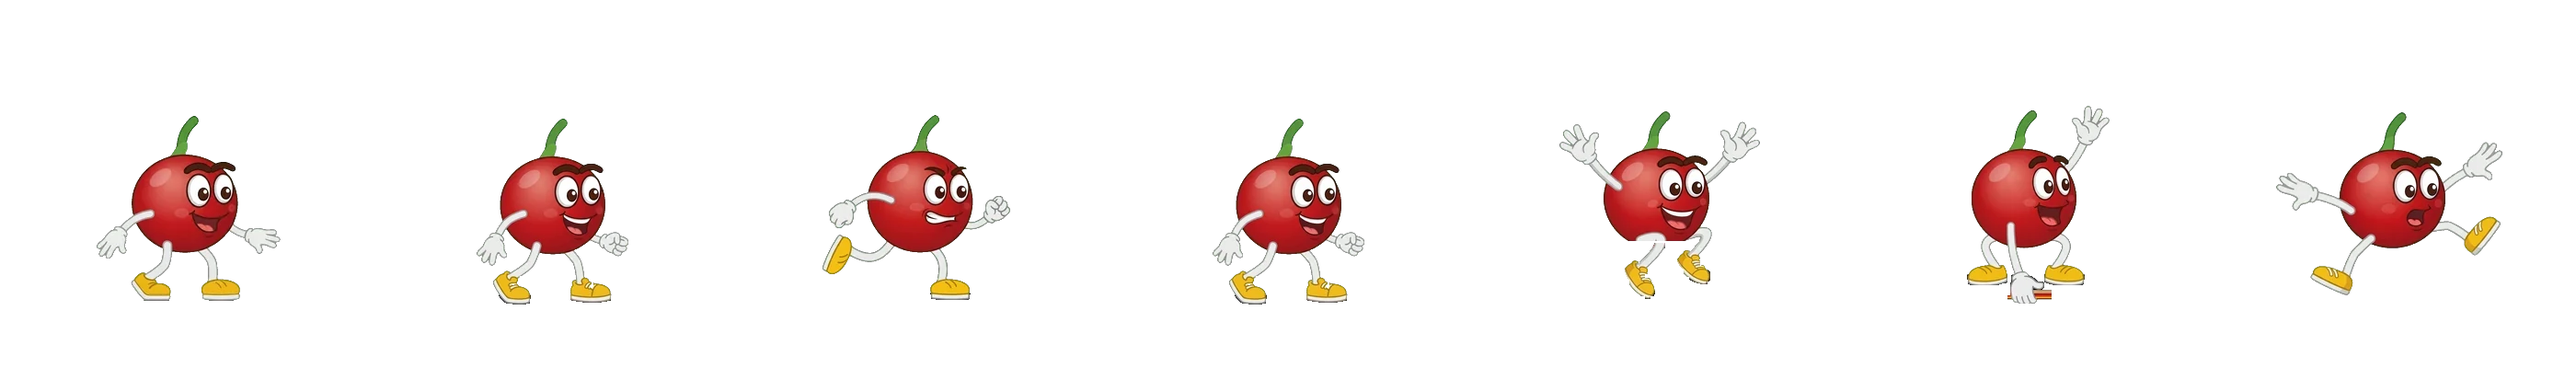
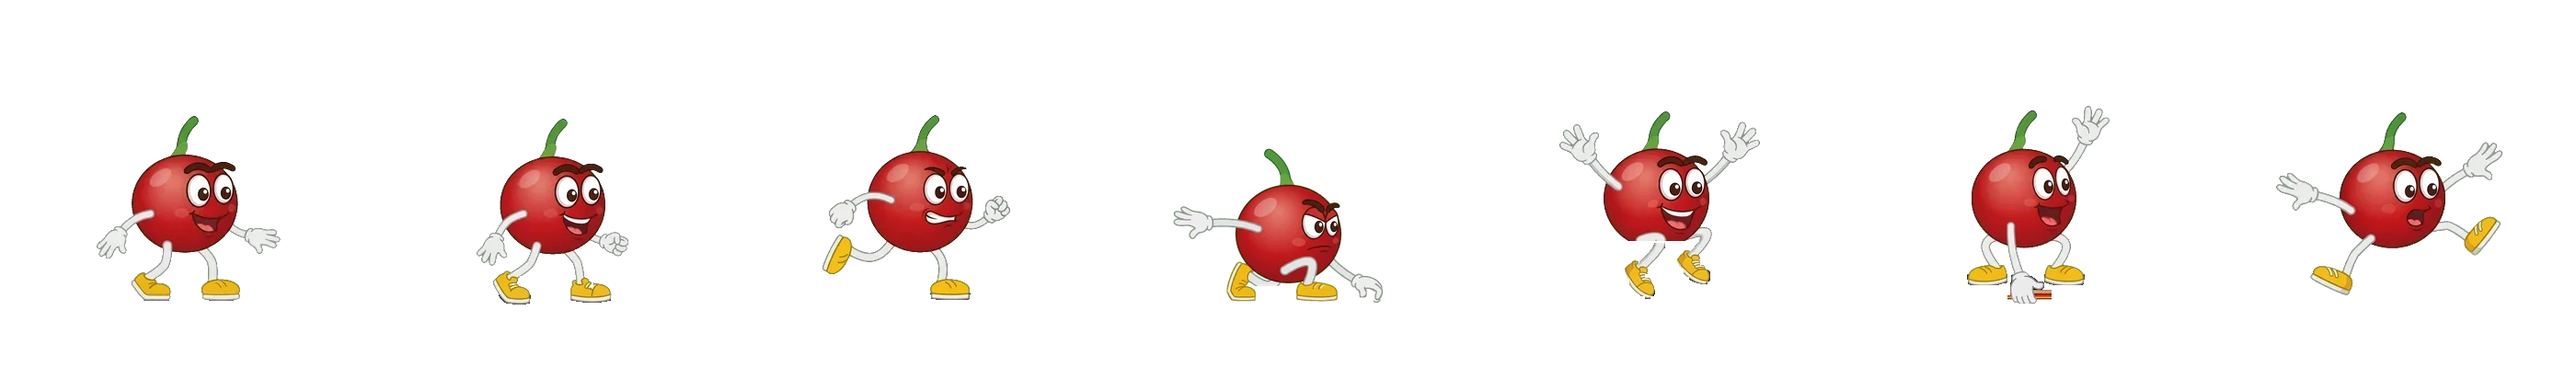
Jaboti Run: skate com pose agachada, 360 flip e corrimão com grind

Changed region(s): [[0.435, 0.33, 0.5593, 0.84]]

diff --git a/arcade/index.html b/arcade/index.html
@@ -465,9 +465,9 @@ else { const l = document.createElement('link'); l.rel = 'stylesheet'; l.href = 
       src.buffer = noiseBuf; src.loop = true; f.type = 'lowpass'; f.frequency.value = 500; f.Q.value = 1.4; g.gain.value = 0;
       src.connect(f).connect(g).connect(sfxBus); src.start(); mus.roll = { g, f };
     }
-    const rolling = state === 'running' && skateOn() && player.ground;
-    mus.roll.g.gain.setTargetAtTime(rolling ? (player.slide ? .22 : .12) : 0, audio.currentTime, .06);
-    mus.roll.f.frequency.setTargetAtTime(380 + (speed || 0) * .45, audio.currentTime, .2);
+    const grinding = state === 'running' && !!player.grind, rolling = state === 'running' && skateOn() && player.ground;
+    mus.roll.g.gain.setTargetAtTime(grinding ? .3 : rolling ? (player.slide ? .22 : .12) : 0, audio.currentTime, .04);
+    mus.roll.f.frequency.setTargetAtTime(grinding ? 3200 : 380 + (speed || 0) * .45, audio.currentTime, grinding ? .02 : .2);
     const want = muted ? null : musicTarget();
     if (want !== mus.song) {
       mus.song = want; mus.step = 0; mus.loops = 0; mus.next = audio.currentTime + .06;
@@ -522,7 +522,7 @@ else { const l = document.createElement('link'); l.rel = 'stylesheet'; l.href = 
   };
 
   function reset() {
-    player = { y: 0, vy: 0, ground: true, jumps: 0, coyote: 0, buffer: 0, spin: -1, land: 0, stretch: 0, dx: 0, drop: 0, deadT: 0, landedDead: false, rotDead: 0, slide: false, blink: 2 };
+    player = { y: 0, vy: 0, ground: true, jumps: 0, coyote: 0, buffer: 0, spin: -1, land: 0, stretch: 0, dx: 0, drop: 0, deadT: 0, landedDead: false, rotDead: 0, slide: false, blink: 2, grind: null };
     pose = { ...IDLE_POSE };
     obstacles = []; coins = []; particles = []; texts = [];
     speed = START_SPEED; dist = 0; score = 0; bonus = 0; caps = 0; gap = 600; runTime = 0; rankSent = null; boardFly = null;
@@ -552,6 +552,7 @@ else { const l = document.createElement('link'); l.rel = 'stylesheet'; l.href = 
     if (state === 'over') { if (player.deadT > 1.1) start(); return; }
     if (state === 'paused') { togglePause(); return; }
     if (state !== 'running') return;
+    if (player.grind) { endGrind(false); jump(); return; }                  // sai do corrimão pulando
     if (!player.ground && player.coyote <= 0 && player.jumps < (skills.pulo > 0 ? 3 : 2)) { doubleJump(); return; }
     player.buffer = .13;
   }
@@ -663,6 +664,13 @@ else { const l = document.createElement('link'); l.rel = 'stylesheet'; l.href = 
   function spawn() {
     const r = Math.random(), x0 = W + 40;
     let w;
+    if (skateOn() && score > 60 && Math.random() < .2) {
+      // corrimão (só de skate): pula em cima para fazer grind, ou por cima
+      w = 300 + Math.round(Math.random() * 180);
+      obstacles.push({ kind: 'rail', x: x0, w, h: 50 });
+      for (let i = 0; i < 5; i++) coins.push({ x: x0 + 70 + i * (w - 130) / 4, y: GROUND - 50 - 62, ph: i * .5 });
+      return w;
+    }
     if (score > 250 && r < .07) {
       // drone com engradados voando em altura média: desliza por baixo ou pula por cima
       obstacles.push({ kind: 'drone', x: x0, w: 54, bottom: GROUND - 96, ph: Math.random() * TAU });
@@ -768,15 +776,16 @@ else { const l = document.createElement('link'); l.rel = 'stylesheet'; l.href = 
     parafuso: { turns: 0,  screw: 2, dur: .48, label: 'PARAFUSO!', color: '#9bcb45' },
     duplo:    { turns: 2,  screw: 1, dur: .62, label: 'MORTAL DUPLO!', color: '#ff6a5f' },
     // de skate (pose própria do atlas do skate em sk)
-    kickflip: { turns: 0, screw: 0, dur: .44, label: 'KICKFLIP!', color: '#ffd84a', sk: 6 },
+    // (o corpo não gira: quem vira é o skate — kick = voltas no eixo comprido, shove = giro na horizontal)
+    kickflip: { turns: 0, screw: 0, dur: .44, label: 'KICKFLIP!', color: '#ffd84a', sk: 6, kick: 1 },
     grab:     { turns: 0, screw: 0, dur: .46, label: 'GRAB!', color: '#7fd0ff', sk: 5 },
-    flip360:  { turns: 1, screw: 0, dur: .5, label: '360 FLIP!', color: '#9bcb45', sk: 4 },
-    duplosk:  { turns: 2, screw: 0, dur: .62, label: '720 FLIP!', color: '#ff6a5f', sk: 6 }
+    treflip:  { turns: 0, screw: 0, dur: .54, label: '360 FLIP!', color: '#9bcb45', sk: 6, kick: 1, shove: 1 },
+    duplosk:  { turns: 0, screw: 0, dur: .66, label: '360 FLIP DUPLO!', color: '#ff6a5f', sk: 6, kick: 2, shove: 2 }
   };
   let lastTrick = '';
   function pickTrick() {
     if (player.jumps >= 3) return skateOn() ? 'duplosk' : 'duplo';
-    const opts = (skateOn() ? ['kickflip', 'grab', 'flip360'] : ['mortal', 'reverso', 'parafuso']).filter(k => k !== lastTrick);
+    const opts = (skateOn() ? ['kickflip', 'grab', 'treflip'] : ['mortal', 'reverso', 'parafuso']).filter(k => k !== lastTrick);
     return (lastTrick = pick(opts));
   }
   // poses das manobras (Gemini): 0 entrando, 1 e 2 encolhido como bola, 3 abrindo, 4 parafuso de braços cruzados;
@@ -813,12 +822,33 @@ else { const l = document.createElement('link'); l.rel = 'stylesheet'; l.href = 
     popText(PX + 70, Math.max(70, GROUND - player.y - 110), T.label, T.color);
     ring(PX, GROUND - player.y - 40, '#ffffff'); sparkle(PX, GROUND - player.y - 30, 8, '#ffffff'); sfx.djump();
   }
+  // grind no corrimão (só de skate): cai em cima dele vindo de um pulo
+  const GRINDS = [
+    { label: '50-50!', f: 3, dy: 13, color: '#ffd84a' },
+    { label: 'NOSEGRIND!', f: 0, dy: 13, tilt: .14, color: '#7fd0ff' },
+    { label: '5-0 GRIND!', f: 0, dy: 13, tilt: -.14, color: '#9bcb45' },
+    { label: 'BOARDSLIDE!', f: 1, dy: 21, sx: .26, color: '#ff6a5f' },
+    { label: 'CROOKED!', f: 3, dy: 13, tilt: .1, color: '#f08a1c' }
+  ];
+  let lastGrind = null;
+  function startGrind(o) {
+    const g = pick(GRINDS.filter(x => x !== lastGrind)); lastGrind = g;
+    player.grind = { o, g, t: 0 }; player.ground = false; player.spin = -1; player.trail = []; player.vy = 0; player.y = o.h - g.dy; player.jumps = 0; player.land = .6;
+    popText(PX + 70, GROUND - o.h - 120, g.label, g.color); sfx.skland(); sparkle(PX + 10, GROUND - o.h, 12, '#ffe08a');
+  }
+  function endGrind(hop) {
+    const G2 = player.grind; if (!G2) return;
+    player.grind = null; player.ground = false; player.jumps = 1; player.vy = hop ? 260 : 0;
+    const pts = (30 + Math.floor(G2.t * 60)) * mult(); bonus += pts;
+    popText(PX + 40, GROUND - player.y - 100, '+' + pts, G2.g.color);
+  }
   function playerBox() {
     const sliding = player.slide && player.ground;
     const h = sliding ? 86 : skateOn() ? 114 : 104;
     return { x1: PX - 22, x2: PX + 24, y1: GROUND - player.y - h, y2: GROUND - player.y - 3 };
   }
   function hits(o, p) {
+    if (o.kind === 'rail') return !player.grind && p.x2 > o.x + 6 && p.x1 < o.x + o.w - 6 && p.y2 > GROUND - o.h + 10;
     if (o.kind === 'prop') return o.hit.some(([hx, hw, hh]) => p.x2 > o.x + hx && p.x1 < o.x + hx + hw && p.y2 > GROUND - hh);
     if (o.kind === 'hang') return p.x2 > o.x + 6 && p.x1 < o.x + o.w - 6 && p.y1 < o.bottom;
     if (o.kind === 'drone') { const b = droneBottom(o); return p.x2 > o.x + 5 && p.x1 < o.x + o.w - 5 && p.y1 < b && p.y2 > b - 48; }
@@ -831,7 +861,7 @@ else { const l = document.createElement('link'); l.rel = 'stylesheet'; l.href = 
   }
   function die() {
     state = 'dying'; hitstop = .12; shake = 14;
-    player.vy = 640; player.ground = false; player.deadT = 0; player.landedDead = false; player.spin = -1;
+    player.grind = null; player.vy = 640; player.ground = false; player.deadT = 0; player.landedDead = false; player.spin = -1;
     sparkle(PX + 20, GROUND - player.y - 50, 14, '#ffffff'); sfx.hit(); skills = {};
     if (skateOn()) boardFly = { x: PX, y: GROUND - player.y - 8, vx: 260, vy: -520, r: 0, vr: 9 };
     loja.carteira += caps; salvarLoja();                                      // tampinhas da partida vão para a carteira
@@ -886,12 +916,20 @@ else { const l = document.createElement('link'); l.rel = 'stylesheet'; l.href = 
       if (player.ground) player.coyote = .08; else player.coyote -= dt;
       if (player.buffer > 0 && (player.ground || player.coyote > 0) && player.jumps === 0) jump();
 
-      if (!player.ground) {
+      if (player.grind) {                                                   // deslizando no corrimão
+        const o = player.grind.o; player.grind.t += dt;
+        player.vy = 0; player.y = o.h - player.grind.g.dy; player.coyote = 0;
+        if (Math.random() < .8) particles.push({ type: 'spark', x: PX + (Math.random() - .5) * 30, y: GROUND - o.h + 1, vx: -220 - Math.random() * 260, vy: -60 - Math.random() * 140, life: .3, max: .3, r: 1.5 + Math.random() * 2, color: Math.random() < .6 ? '#ffd23a' : '#ffffff' });
+        if (o.dead || o.x + o.w - 6 < PX) endGrind(true);
+      } else if (!player.ground) {
+        const prevY = player.y;
         let g = G;
         if (hold && player.vy > 0 && player.jumps === 1) g *= .62;
         if (duckHeld) g *= 2.6;
         player.vy -= g * dt; player.y += player.vy * dt;
-        if (player.y <= 0) {
+        if (skateOn() && player.vy < 0) for (const o of obstacles)        // caiu em cima do corrimão: grind
+          if (o.kind === 'rail' && !o.dead && PX > o.x + 4 && PX < o.x + o.w - 24 && prevY >= o.h - 4 && player.y < o.h - 4) { startGrind(o); break; }
+        if (!player.grind && player.y <= 0) {
           player.y = 0; player.vy = 0; player.ground = true; player.jumps = 0; player.spin = -1;
           player.land = 1; dust(PX, GROUND, 9, 1.2); if (skateOn()) sfx.skland();
         }
@@ -918,7 +956,7 @@ else { const l = document.createElement('link'); l.rel = 'stylesheet'; l.href = 
         o.x -= vel * dt + (o.kind === 'can' ? speed * .15 * dt : 0);
         if (o.kind === 'can') { o.spin += dt * 9; o.wob += dt * 6; }
       });
-      obstacles = obstacles.filter(o => o.x > -160 && !o.dead);
+      obstacles = obstacles.filter(o => o.x + (o.w || 0) > -160 && !o.dead);
       const magnet = skills.ima > 0;
       coins.forEach(c => {
         c.x -= vel * dt; c.ph += dt * 5;
@@ -1105,7 +1143,7 @@ else { const l = document.createElement('link'); l.rel = 'stylesheet'; l.href = 
   // o skate em si é UM desenho só (skate-shape), colado embaixo dos pés pelo código: deck = [centro x, topo da lixa y, ângulo] de cada pose
   const SKATE_SHAPE = new Image(); SKATE_SHAPE.src = 'assets/skate-shape.webp';
   const SK = { size: 400, cx: 200, fy: 216, bot: 372, shape: { w: 262, h: 64, top: 14 },
-    deck: [[195, 322, 0], [200, 322, 0], [205, 322, 0], [200, 322, 0], [222, 308, -.31], [195, 303, 0], [232, 342, 0]] };
+    deck: [[195, 322, 0], [200, 322, 0], [205, 322, 0], [190, 322, 0], [222, 308, -.31], [195, 303, 0], [232, 342, 0]] };
   const skateOn = () => loja.acc === 'skate' && ok(SKATE_IMG) && ok(SKATE_SHAPE);
   const SP = { size: 256, feet: 246, cx: 128, bodyMid: 101, scale: .62,
     run: [0, 1, 2, 3, 4, 5, 6, 7, 8, 9], rise: 11, air: 12, fall: 13, land: 14, slide: 18, dizzy: 19, idle: [20, 21, 22, 22, 22, 21, 23, 20] };
@@ -1271,6 +1309,7 @@ else { const l = document.createElement('link'); l.rel = 'stylesheet'; l.href = 
       const c = (runTime || t) % 3.2;                                        // remada de vez em quando
       return c < .5 ? 2 : Math.floor((runTime || t) * 1.4) % 2;
     }
+    if (player.grind) return player.grind.g.f;
     if (player.spin >= 0 && player.trick && TRICKS[player.trick].sk != null) return TRICKS[player.trick].sk;
     return 4;                                                                // ollie
   }
@@ -1278,25 +1317,26 @@ else { const l = document.createElement('link'); l.rel = 'stylesheet'; l.href = 
   function drawBoard(f, k) {
     const [dx, dy, ang] = SK.deck[f], B = SK.shape;
     ctx.save(); ctx.translate((dx - SK.cx) * k, (dy - SK.bot) * k); ctx.rotate(ang);
-    if (f === 6) {                                                           // kickflip: vira de cabeça para baixo e volta
-      const T = player.trick && TRICKS[player.trick], turns = T && T.turns >= 2 ? 2 : 1, ph = clamp(player.spin, 0, 1);
-      ctx.translate(0, B.h * .35 * k); ctx.rotate(Math.sin(ph * Math.PI) * .35); ctx.scale(1, Math.cos(ph * turns * TAU)); ctx.translate(0, -B.h * .35 * k);
+    if (f === 6) {                                                           // kickflip (vira no eixo comprido) e 360 flip (vira + gira na horizontal)
+      const T = player.trick && TRICKS[player.trick], kick = (T && T.kick) || 1, shove = (T && T.shove) || 0, ph = clamp(player.spin, 0, 1);
+      const cs = Math.cos(ph * shove * TAU), sx = shove ? Math.sign(cs || 1) * Math.max(.24, Math.abs(cs)) : 1;   // de ponta o skate ainda mostra a largura
+      ctx.translate(0, B.h * .35 * k); ctx.rotate(Math.sin(ph * Math.PI) * (shove ? .2 : .35)); ctx.scale(sx, Math.cos(ph * kick * TAU)); ctx.translate(0, -B.h * .35 * k);
     }
+    if (player.grind && state !== 'shop' && player.grind.g.sx) ctx.scale(player.grind.g.sx, 1);   // boardslide: skate atravessado no corrimão
     ctx.drawImage(SKATE_SHAPE, -B.w / 2 * k, -B.top * k, B.w * k, B.h * k);
     ctx.restore();
   }
   function drawSkater(ox, oy, tint, X) {
     const k = SP.scale, f = skaterFrame(), im = tinted(SKATE_IMG, tint), S2 = SK.size * k;
-    const squash = f === 3 ? .74 : 1;                                        // agachado (até chegar a pose própria, achata a de andar)
     const tilt = player.ground ? Math.sin(t * 11) * .015 : clamp(-player.vy / 2600, -.18, .22);
     const bob = player.ground && state === 'running' ? Math.abs(Math.sin(t * 22)) * 1.2 : 0;
     const draw = (x, y, r, a) => {
       ctx.save(); ctx.globalAlpha *= a;
       ctx.translate(x, y);
+      if (player.grind && state === 'running') ctx.rotate(player.grind.g.tilt || 0);   // nosegrind / 5-0: inclina em cima do corrimão
       if (r) { const fy = (SK.bot - SK.fy) * k; ctx.translate(0, -fy); ctx.rotate(r); ctx.translate(0, fy); }   // gira em volta da fruta
-      drawBoard(f, k);                                                       // o skate não balança nem achata
-      ctx.translate(0, -bob);
-      if (squash !== 1) { const dk = (SK.bot - SK.deck[f][1]) * k; ctx.translate(0, -dk); ctx.scale(1, squash); ctx.translate(0, dk); }
+      drawBoard(f, k);                                                       // o skate não balança
+      ctx.translate(0, -bob - (player.grind ? Math.random() * 1.2 : 0));
       ctx.drawImage(im, f * SK.size, 0, SK.size, SK.size, -SK.cx * k, -SK.bot * k, S2, S2);
       ctx.restore();
     };
@@ -2265,6 +2305,31 @@ else { const l = document.createElement('link'); l.rel = 'stylesheet'; l.href = 
       ctx.strokeText('↓ ↑', o.x + o.w / 2, b + 20); ctx.fillText('↓ ↑', o.x + o.w / 2, b + 20);
     }
   }
+  // corrimão de metal com postes vermelhos (desenhado no código)
+  function drawRail(o) {
+    const top = GROUND - o.h, x0 = o.x, x1 = o.x + o.w, posts = [x0 + 16, x1 - 16];
+    if (o.w > 330) posts.push((x0 + x1) / 2);
+    ctx.fillStyle = 'rgba(0,0,0,.2)'; ctx.beginPath(); ctx.ellipse((x0 + x1) / 2, GROUND + 2, o.w * .52, 5, 0, 0, TAU); ctx.fill();
+    posts.forEach(px => {
+      const pg = ctx.createLinearGradient(px - 4, 0, px + 4, 0);
+      pg.addColorStop(0, '#8f1217'); pg.addColorStop(.45, '#ff4a4f'); pg.addColorStop(1, '#8f1217');
+      ctx.fillStyle = pg; ctx.fillRect(px - 4, top + 3, 8, o.h - 2);
+      ctx.fillStyle = '#3d434a'; ctx.fillRect(px - 11, GROUND - 3, 22, 5);
+      ctx.fillStyle = '#ffc21a'; ctx.fillRect(px - 4, GROUND - 16, 8, 4);
+    });
+    const tg = ctx.createLinearGradient(0, top - 4, 0, top + 6);
+    tg.addColorStop(0, '#ffffff'); tg.addColorStop(.35, '#cfd6dd'); tg.addColorStop(1, '#5d6670');
+    ctx.lineCap = 'round';
+    ctx.strokeStyle = '#2f353b'; ctx.lineWidth = 11; ctx.beginPath(); ctx.moveTo(x0 + 4, top + 1); ctx.lineTo(x1 - 4, top + 1); ctx.stroke();
+    ctx.strokeStyle = tg; ctx.lineWidth = 8; ctx.stroke();
+    ctx.strokeStyle = 'rgba(255,255,255,.75)'; ctx.lineWidth = 2; ctx.beginPath(); ctx.moveTo(x0 + 8, top - 1.5); ctx.lineTo(x1 - 8, top - 1.5); ctx.stroke();
+    ctx.lineCap = 'butt';
+    if (player.grind && player.grind.o === o) {                              // brilho onde o skate raspa
+      const gl = ctx.createRadialGradient(PX, top, 1, PX, top, 26);
+      gl.addColorStop(0, 'rgba(255,230,140,.9)'); gl.addColorStop(1, 'rgba(255,200,60,0)');
+      ctx.fillStyle = gl; ctx.fillRect(PX - 26, top - 26, 52, 52);
+    }
+  }
   function drawProp(o) {
     const im = sc(o.name);
     ctx.fillStyle = 'rgba(0,0,0,.2)'; ctx.beginPath(); ctx.ellipse(o.x + o.w / 2, GROUND + 2, o.w * .55, 4, 0, 0, TAU); ctx.fill();
@@ -2887,7 +2952,7 @@ else { const l = document.createElement('link'); l.rel = 'stylesheet'; l.href = 
     drawScenery();
     drawGround();
     coins.forEach(drawCoin);
-    obstacles.forEach(o => o.kind === 'can' ? drawCan(o) : o.kind === 'crate' ? drawCrates(o) : o.kind === 'bin' ? drawBinObs(o) : o.kind === 'hang' ? drawHang(o) : o.kind === 'drone' ? drawDrone(o) : o.kind === 'prop' ? drawProp(o) : drawBottle(o));
+    obstacles.forEach(o => o.kind === 'can' ? drawCan(o) : o.kind === 'crate' ? drawCrates(o) : o.kind === 'bin' ? drawBinObs(o) : o.kind === 'hang' ? drawHang(o) : o.kind === 'drone' ? drawDrone(o) : o.kind === 'prop' ? drawProp(o) : o.kind === 'rail' ? drawRail(o) : drawBottle(o));
     items.forEach(drawItem);
     drawParticles();
     drawGas();
